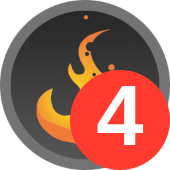
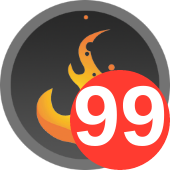
Fixed badge text

Changed region(s): [[0.4412, 0.5, 0.9706, 0.8824]]

diff --git a/browser.js b/browser.js
@@ -50,7 +50,7 @@ function getNewIconWithOverlayIcon(text) {
 
     if (text) {
 
-        var radiusX = 50;
+        var radiusX = 50 + ((text + '').length - 2) * 25;
         var radiusY = 50;
 
         ctx.fillStyle = "#ff3b30";
@@ -76,9 +76,7 @@ function getNewIconWithOverlayIcon(text) {
     }
 
     var img = nativeImage.createFromDataURL(canvas.toDataURL());
-    fs.writeFileSync('image-icon.png', img.toPng(), function (err) {
-        throw err;
-    });
+    fs.writeFileSync( __dirname + '/image-icon.png', img.toPng());
 
     return __dirname + '/image-icon.png';
     //return canvas.toDataURL();
@@ -94,10 +92,12 @@ ipcRenderer.on('syn-get-message-count', (event, arg) => {
 
 function setWindowIconWithBadge(isFlashWindow = false) {
     var text = getUnreadCount();
+    if (+text > 99) { text = '99+'; }
+
     var win = remote.getCurrentWindow();
 
     if (isFlashWindow) {
-        win.flashFrame(!Boolean(text));
+        win.flashFrame(Boolean(text));
     }
 
     switch (process.platform) {
@@ -131,7 +131,7 @@ function getUnreadCount() {
 
     var count = 0;
     for (let i = 0; i < els.length; i++) {
-        count += +els[i].innerHTML;
+        count += parseInt(els[i].innerHTML) || 0;
     }
 
     count += document.querySelectorAll('.icon-missedCall,.VoiceInvites-container').length;
@@ -145,6 +145,8 @@ document.addEventListener('DOMContentLoaded', function () {
         clearTimeout(clickTimeout);
         clickTimeout = setTimeout(setWindowIconWithBadge, 700);
     });
+
+    setTimeout(setWindowIconWithBadge, 1000*7);
 
 });
 

diff --git a/index.js b/index.js
@@ -50,7 +50,7 @@ function createWindow() {
     });
 
     // Open the DevTools.
-    //win.webContents.openDevTools();
+    win.webContents.openDevTools();
 
     // Emitted when the window is closed.
     win.on('closed', () => {
